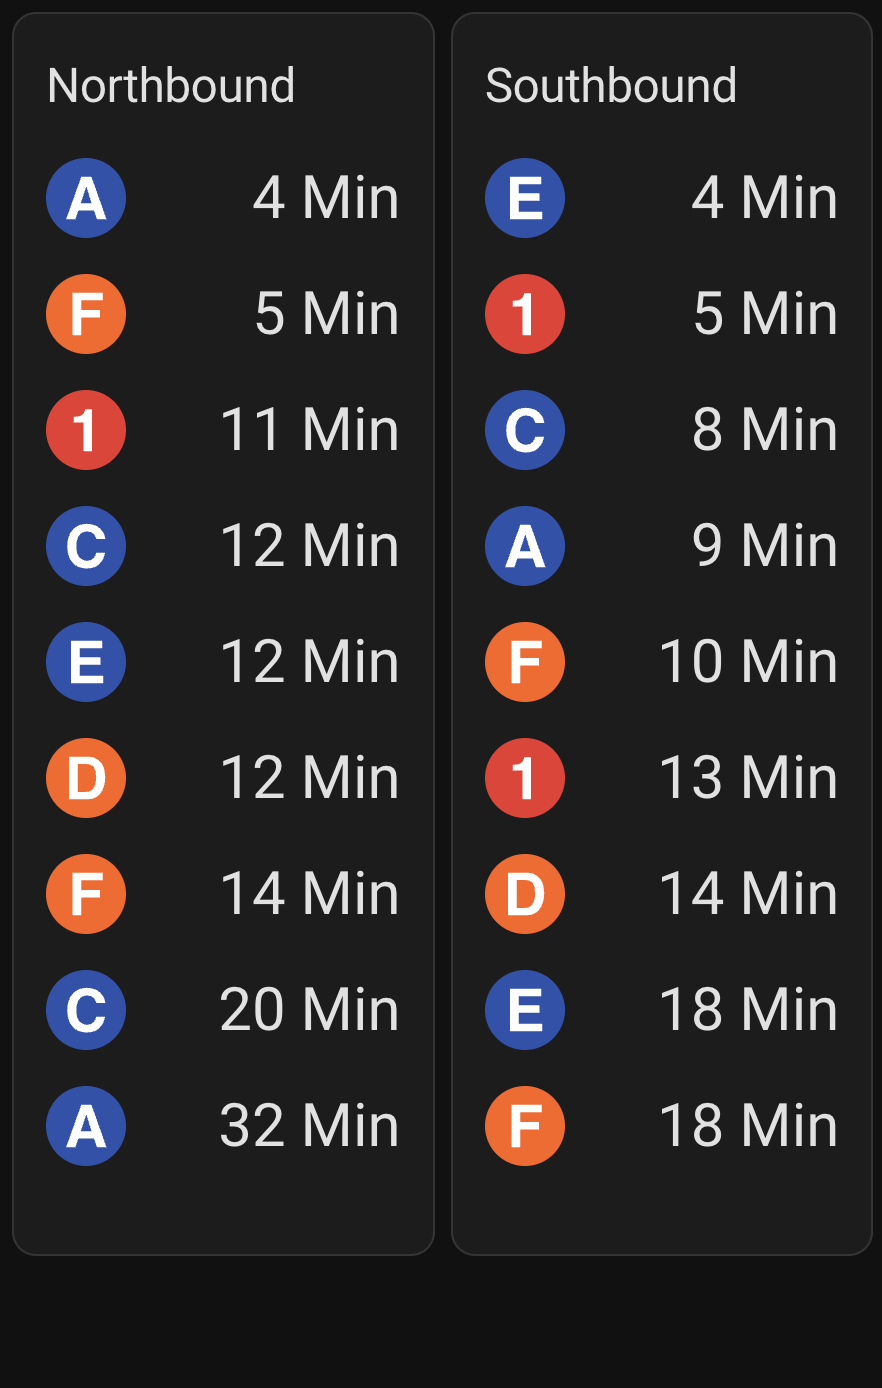
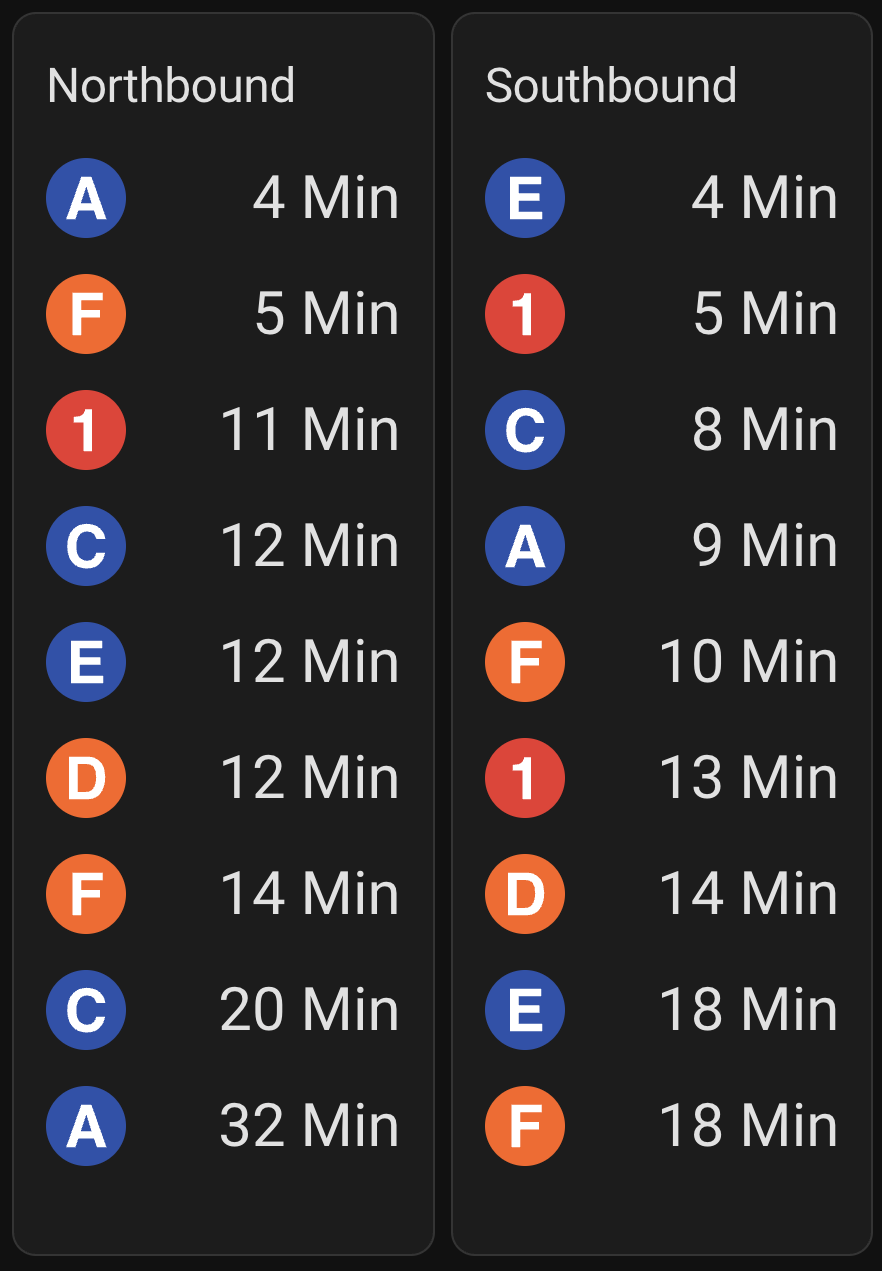
added second preview image

diff --git a/README.md b/README.md
@@ -4,6 +4,9 @@ This is a custom card for Home Assistant to show the NYC subway feed. It is powe
 
 ![card preview](https://raw.githubusercontent.com/akambale/ha-gtfs-mta-card/refs/heads/main/preview.png)
 
+![second card preview](https://raw.githubusercontent.com/akambale/ha-gtfs-mta-card/refs/heads/main/preview-2.png)
+
+
 # Setup
 
 ## 1. Installation
